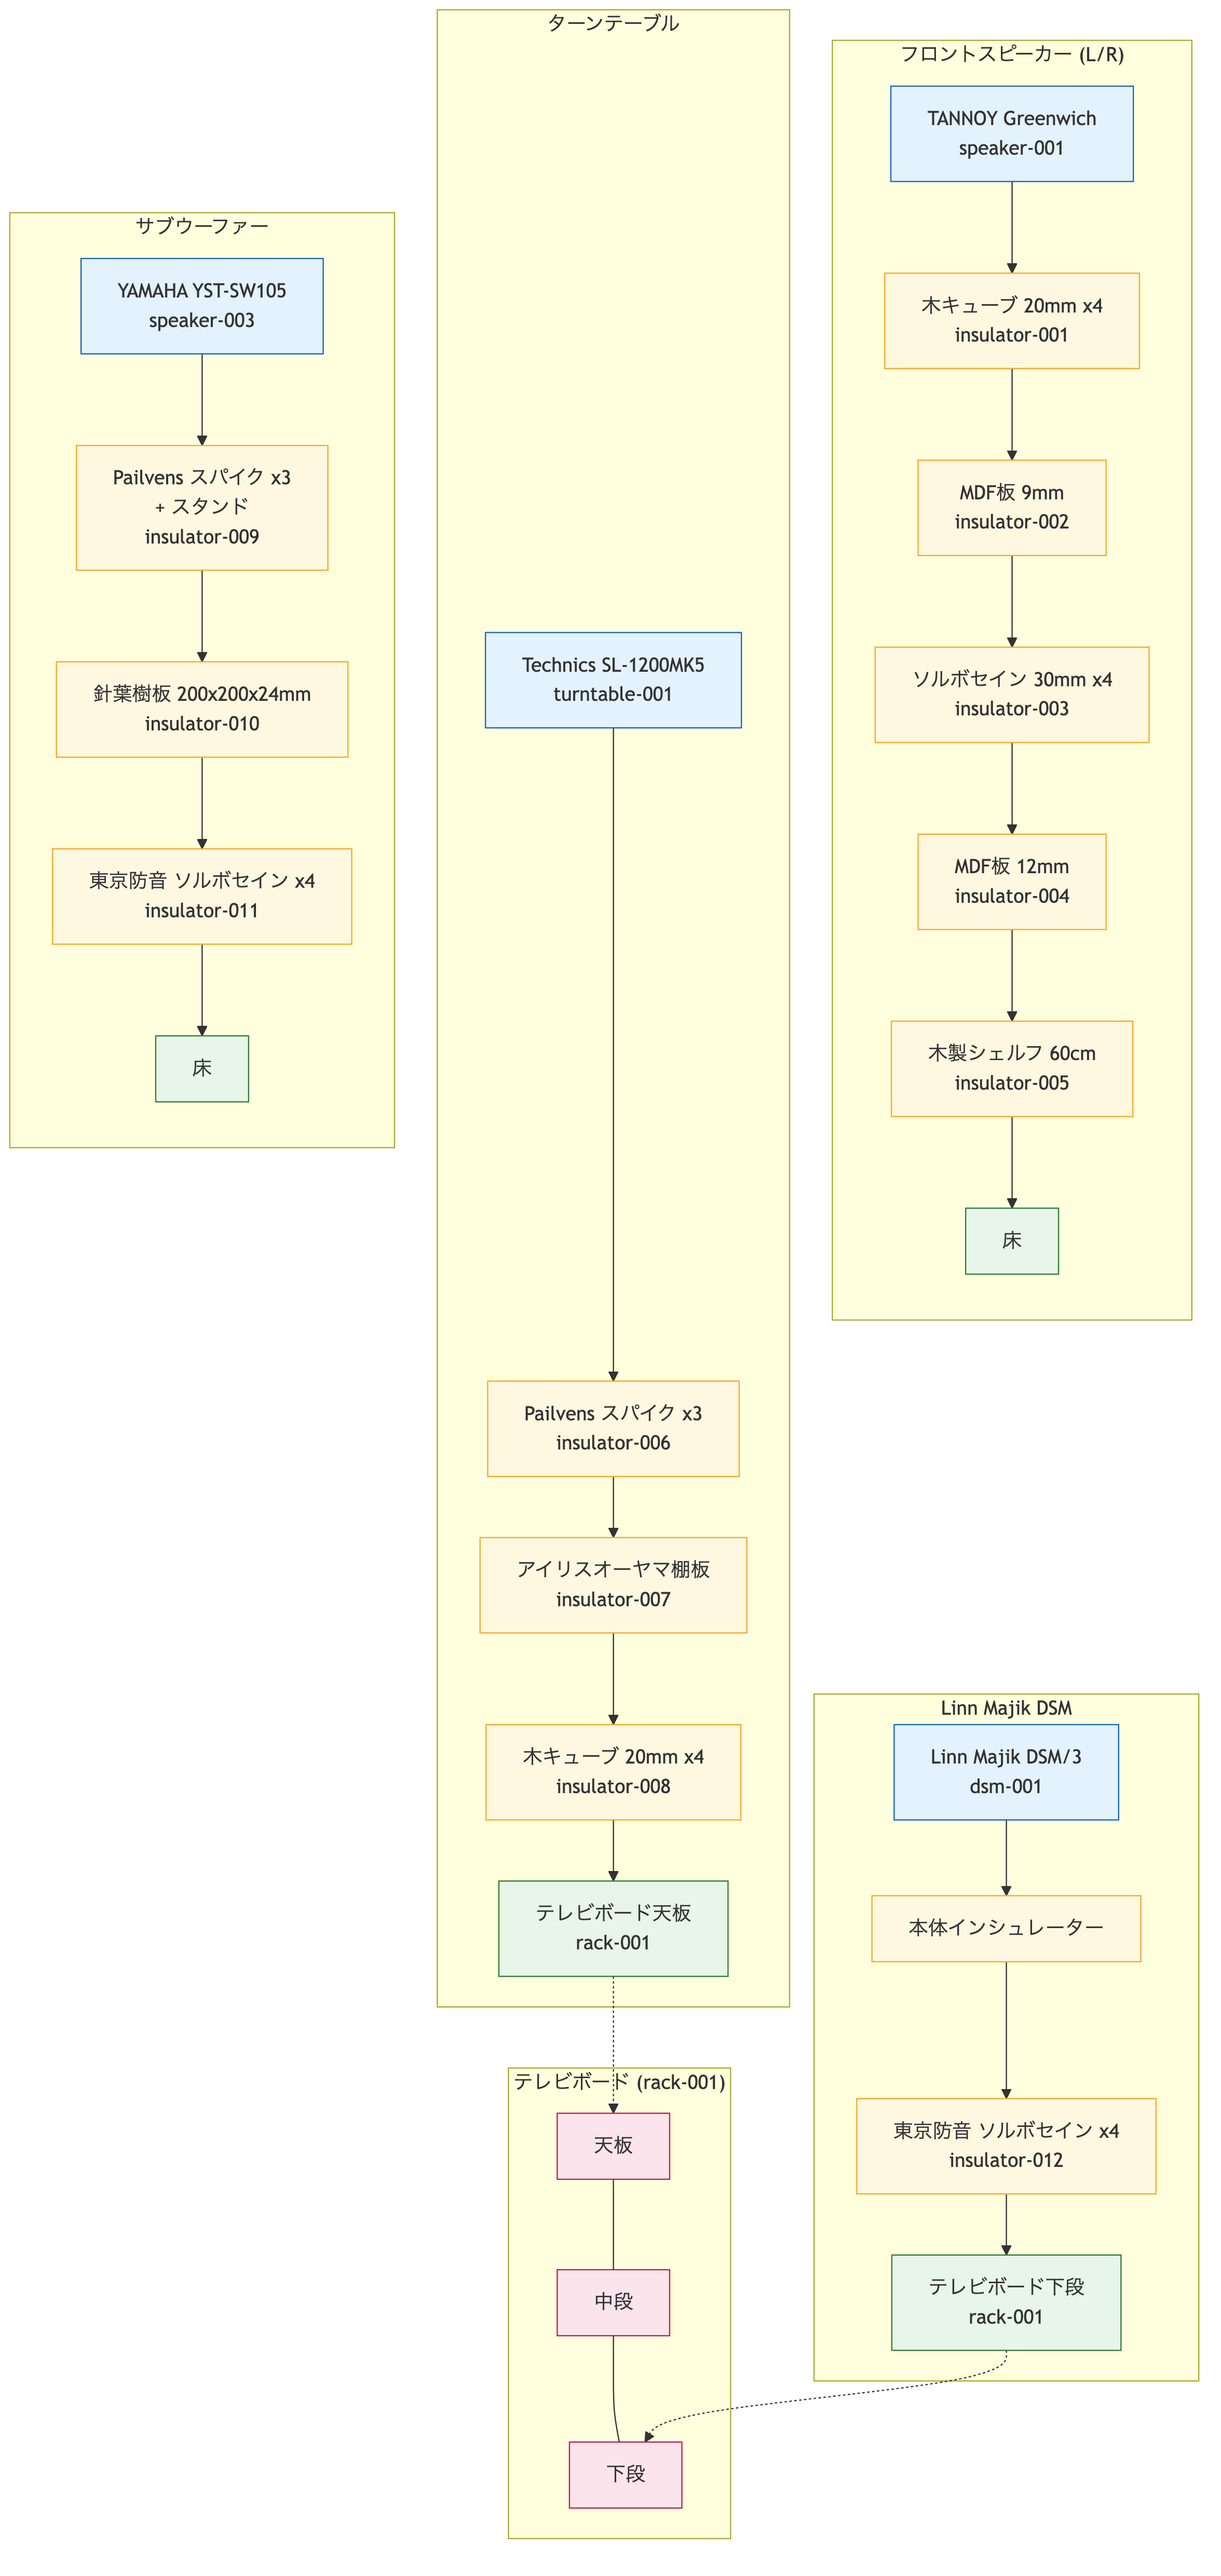
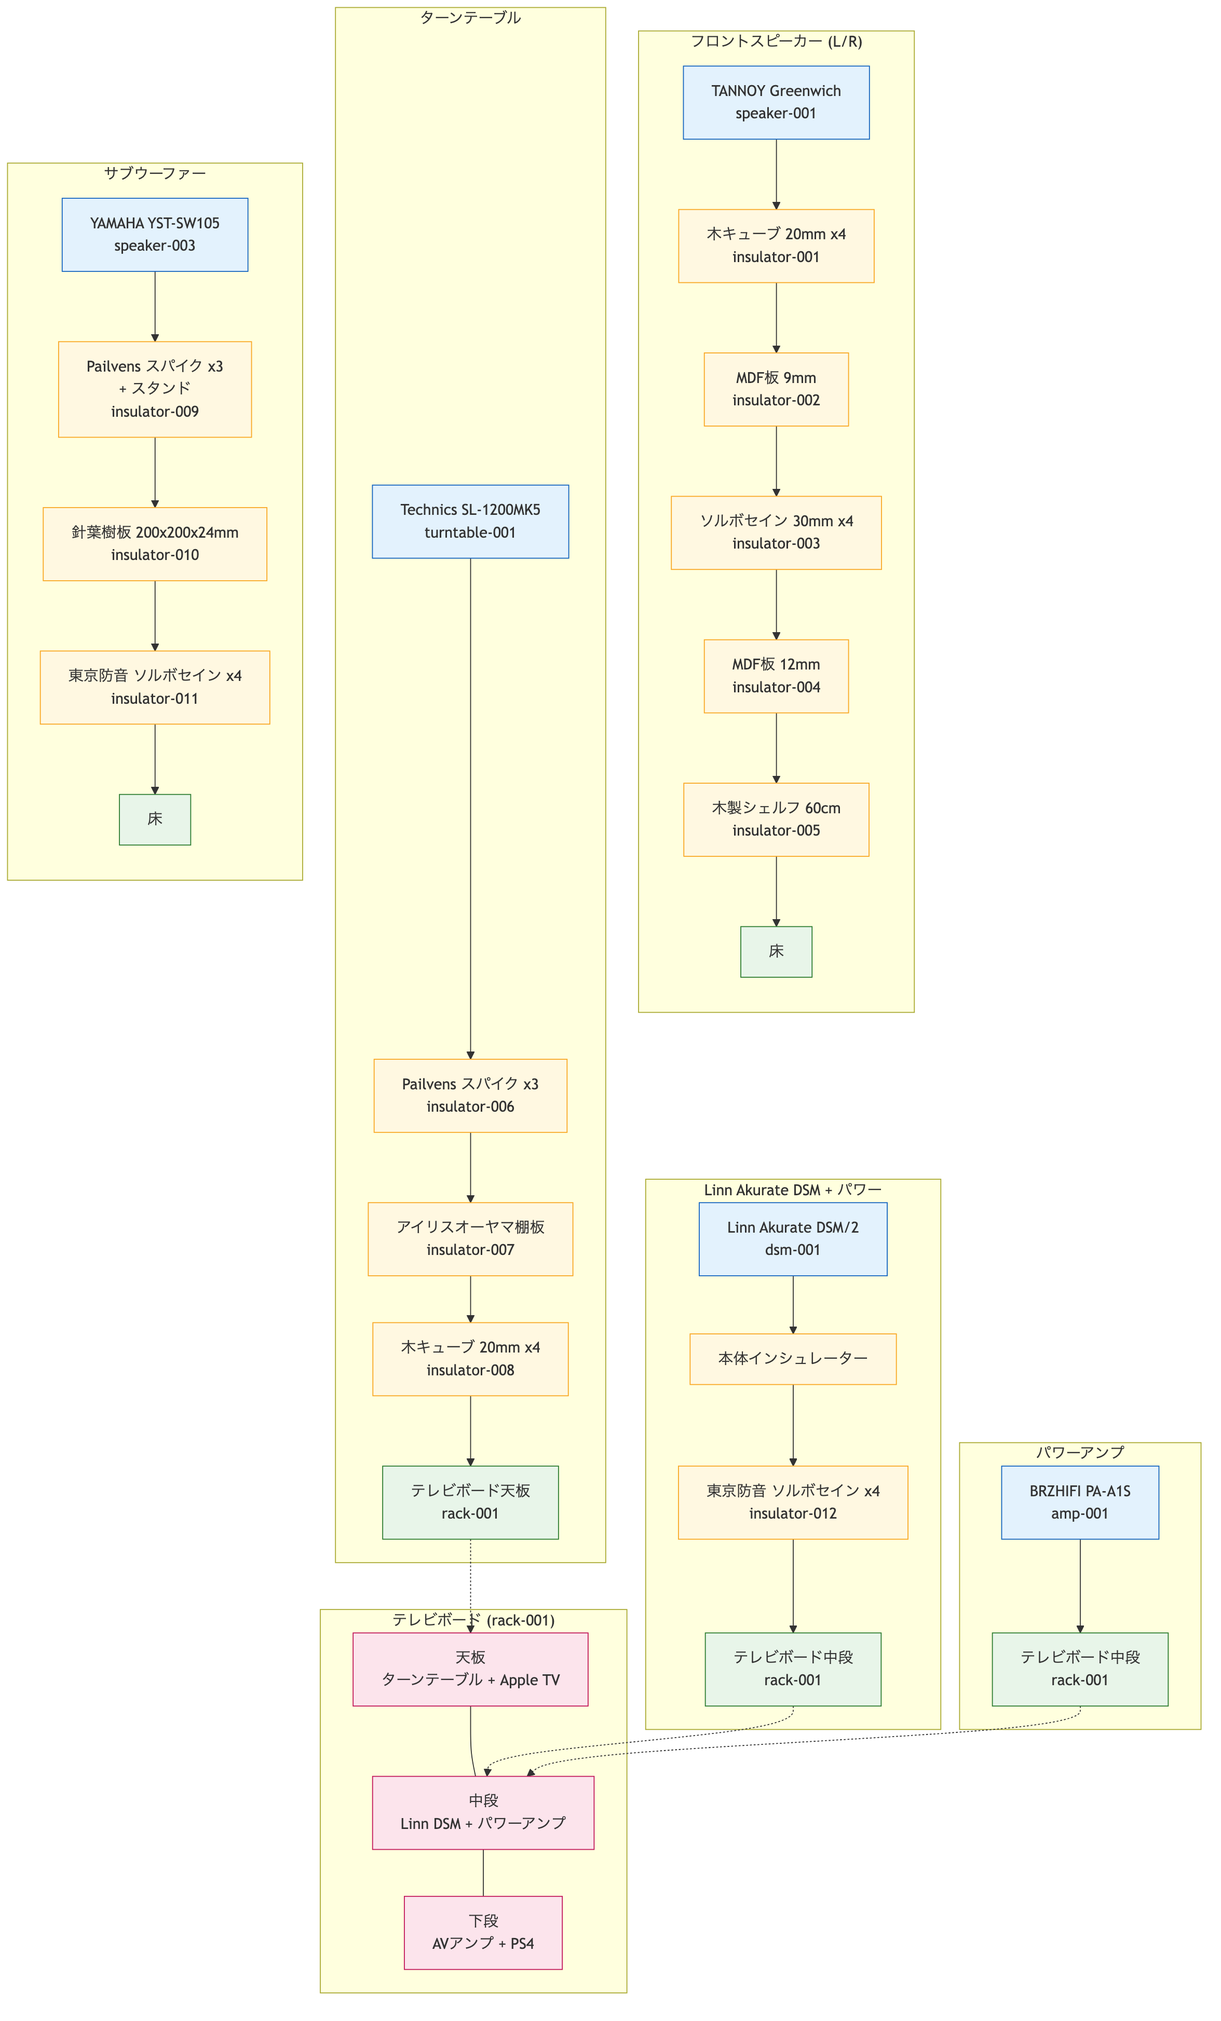
update

diff --git a/README.md b/README.md
@@ -22,7 +22,8 @@
 
 | ID | 機器 | 役割 |
 |----|------|------|
-| dsm-001 | Linn Majik DSM/3 | 2chオーディオ中心 (ストリーマー/DAC/プリメイン) |
+| dsm-001 | Linn Akurate DSM/2 | 2chオーディオ中心 (ストリーマー/DAC/プリアンプ) |
+| amp-001 | BRZHIFI PA-A1S | パワーアンプ (純A級 20W×2) |
 | avr-001 | Marantz NR1608 | サラウンド/映像切替 |
 
 ### スピーカー
@@ -36,8 +37,8 @@
 ### 信号経路概要
 
 ```txt
-[NUC / Apple TV / PS4] → [Marantz AVR] → [Linn DSM] → [TANNOY]
-[Technics SL-1200] → [Linn DSM (Phono)] → [TANNOY]
+[NUC / Apple TV / PS4] → [Marantz AVR] → [Linn DSM] → [PA-A1S] → [TANNOY]
+[Technics SL-1200] → [Linn DSM (Phono)] → [PA-A1S] → [TANNOY]
 [Linn DSM Pre Out] → [YAMAHA Subwoofer]
 [Marantz AVR] → [Surround L/R]
 ```
